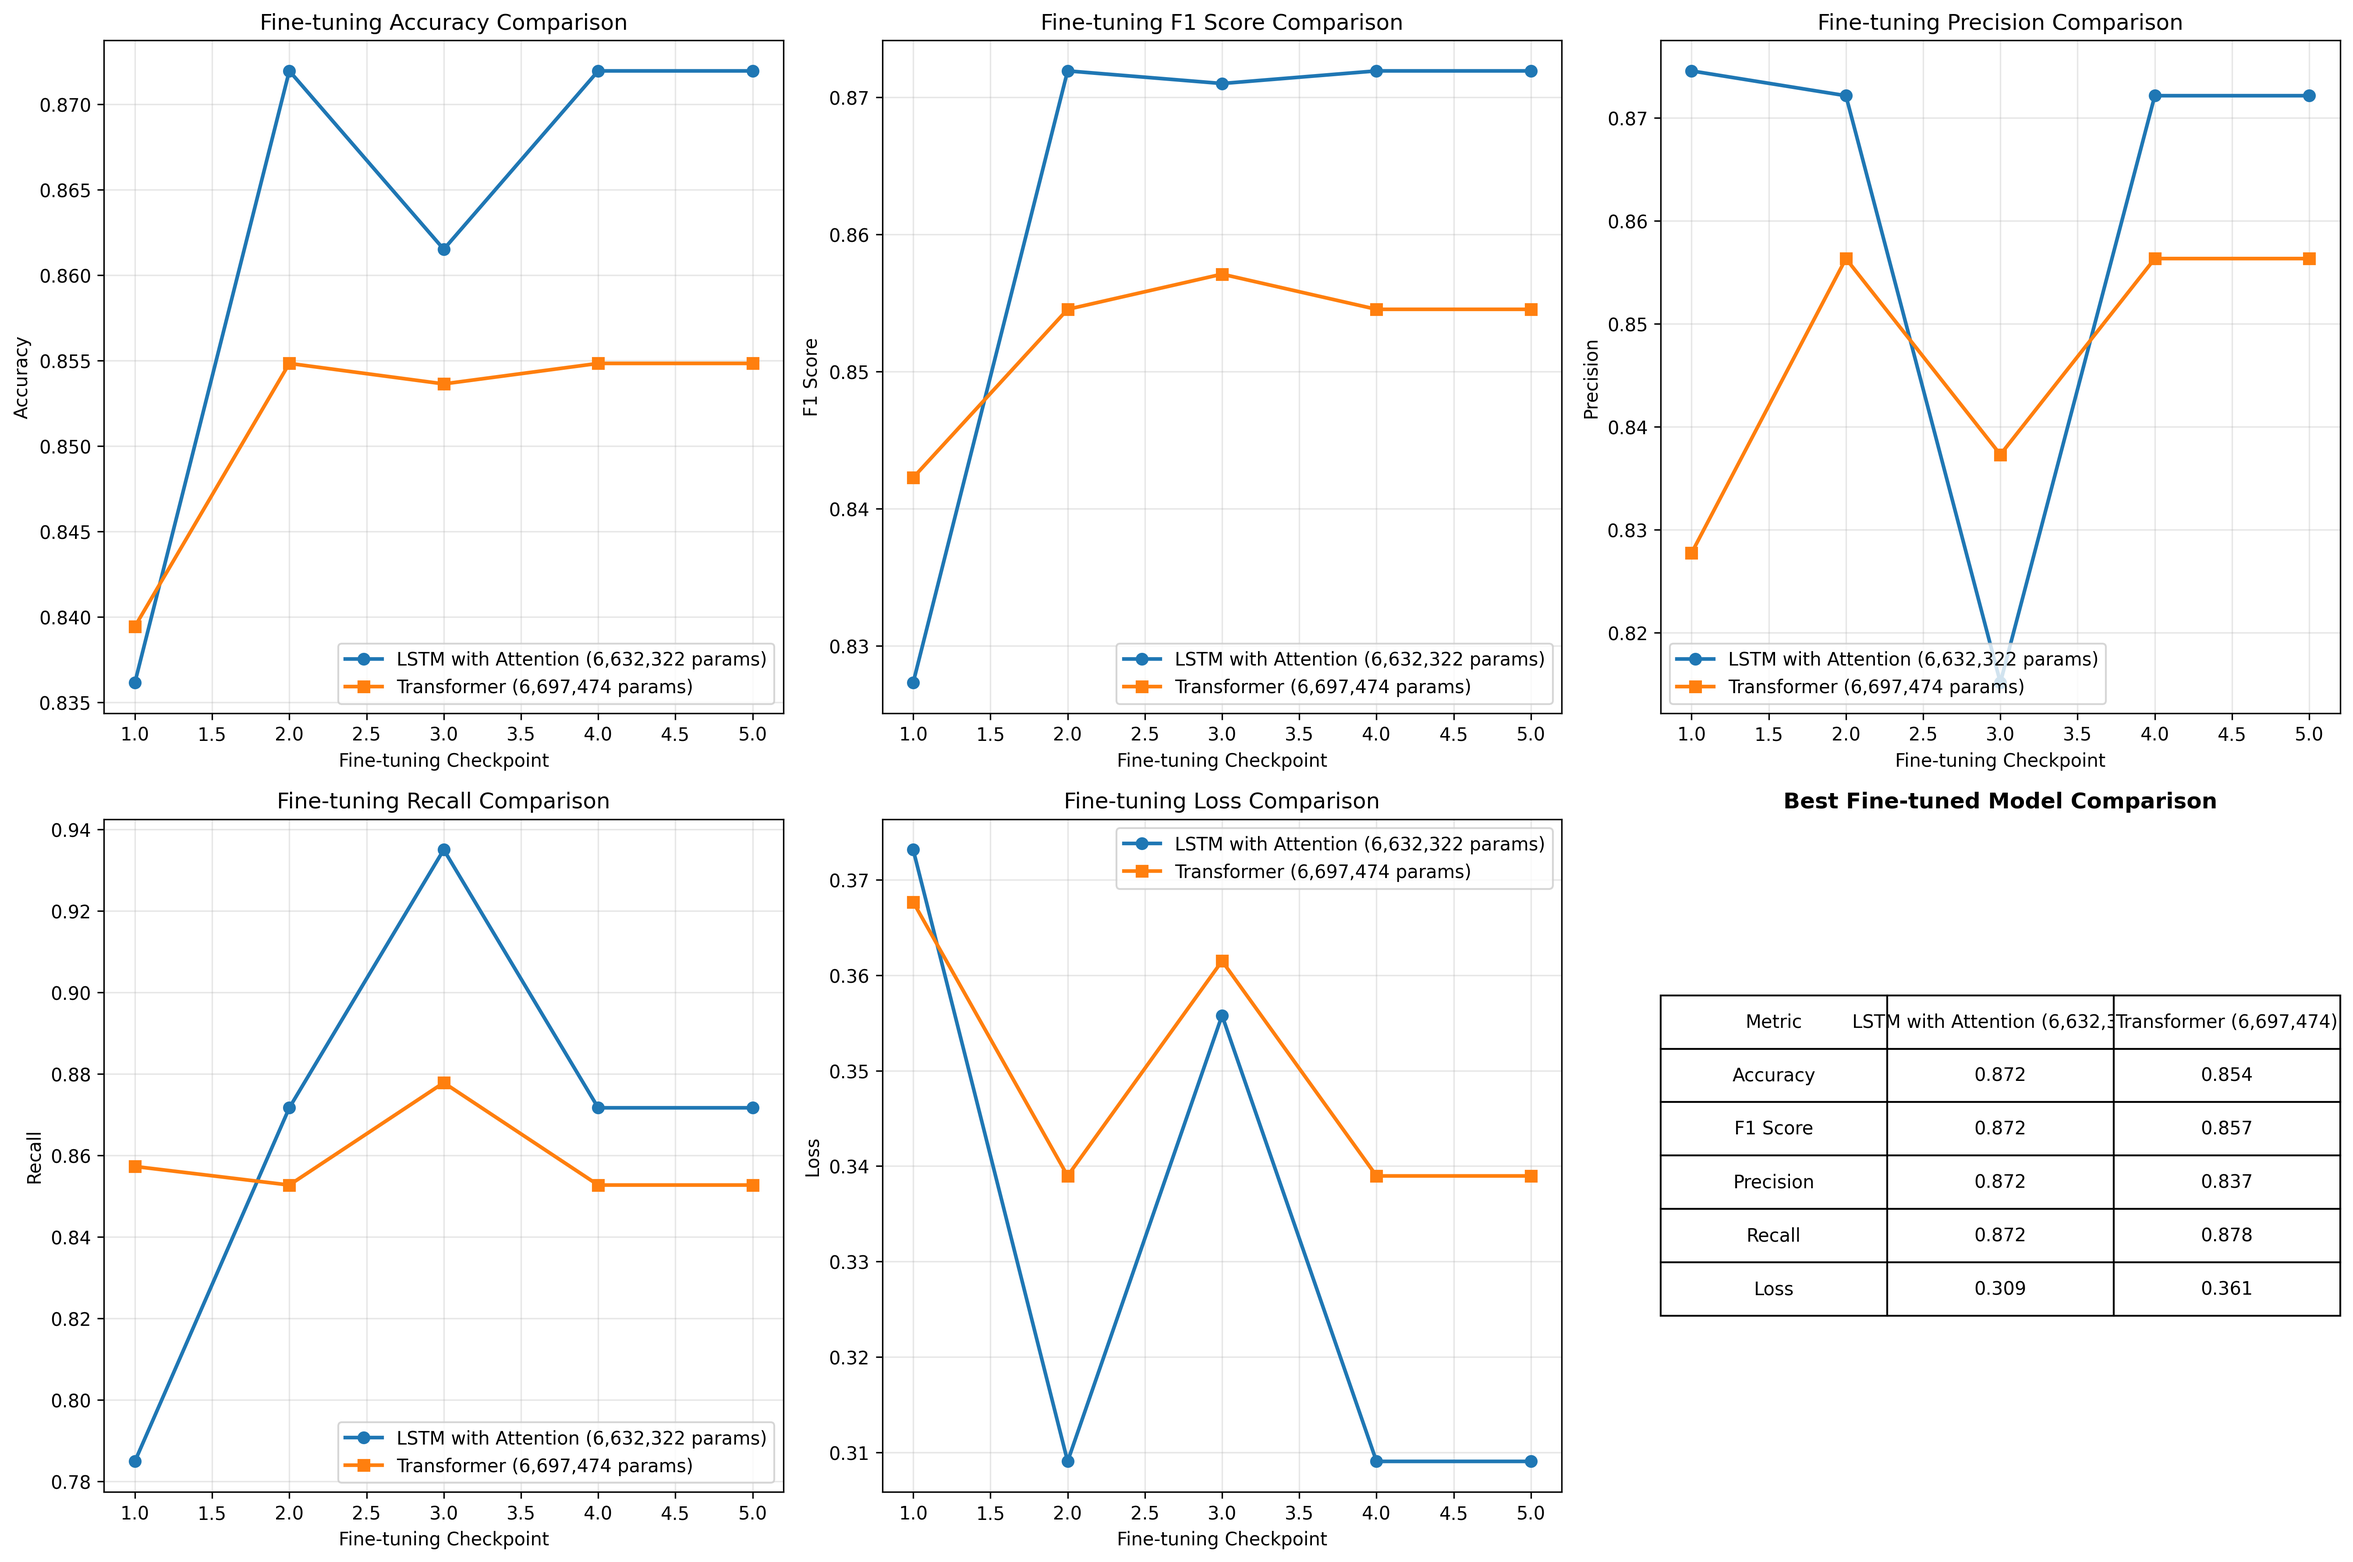
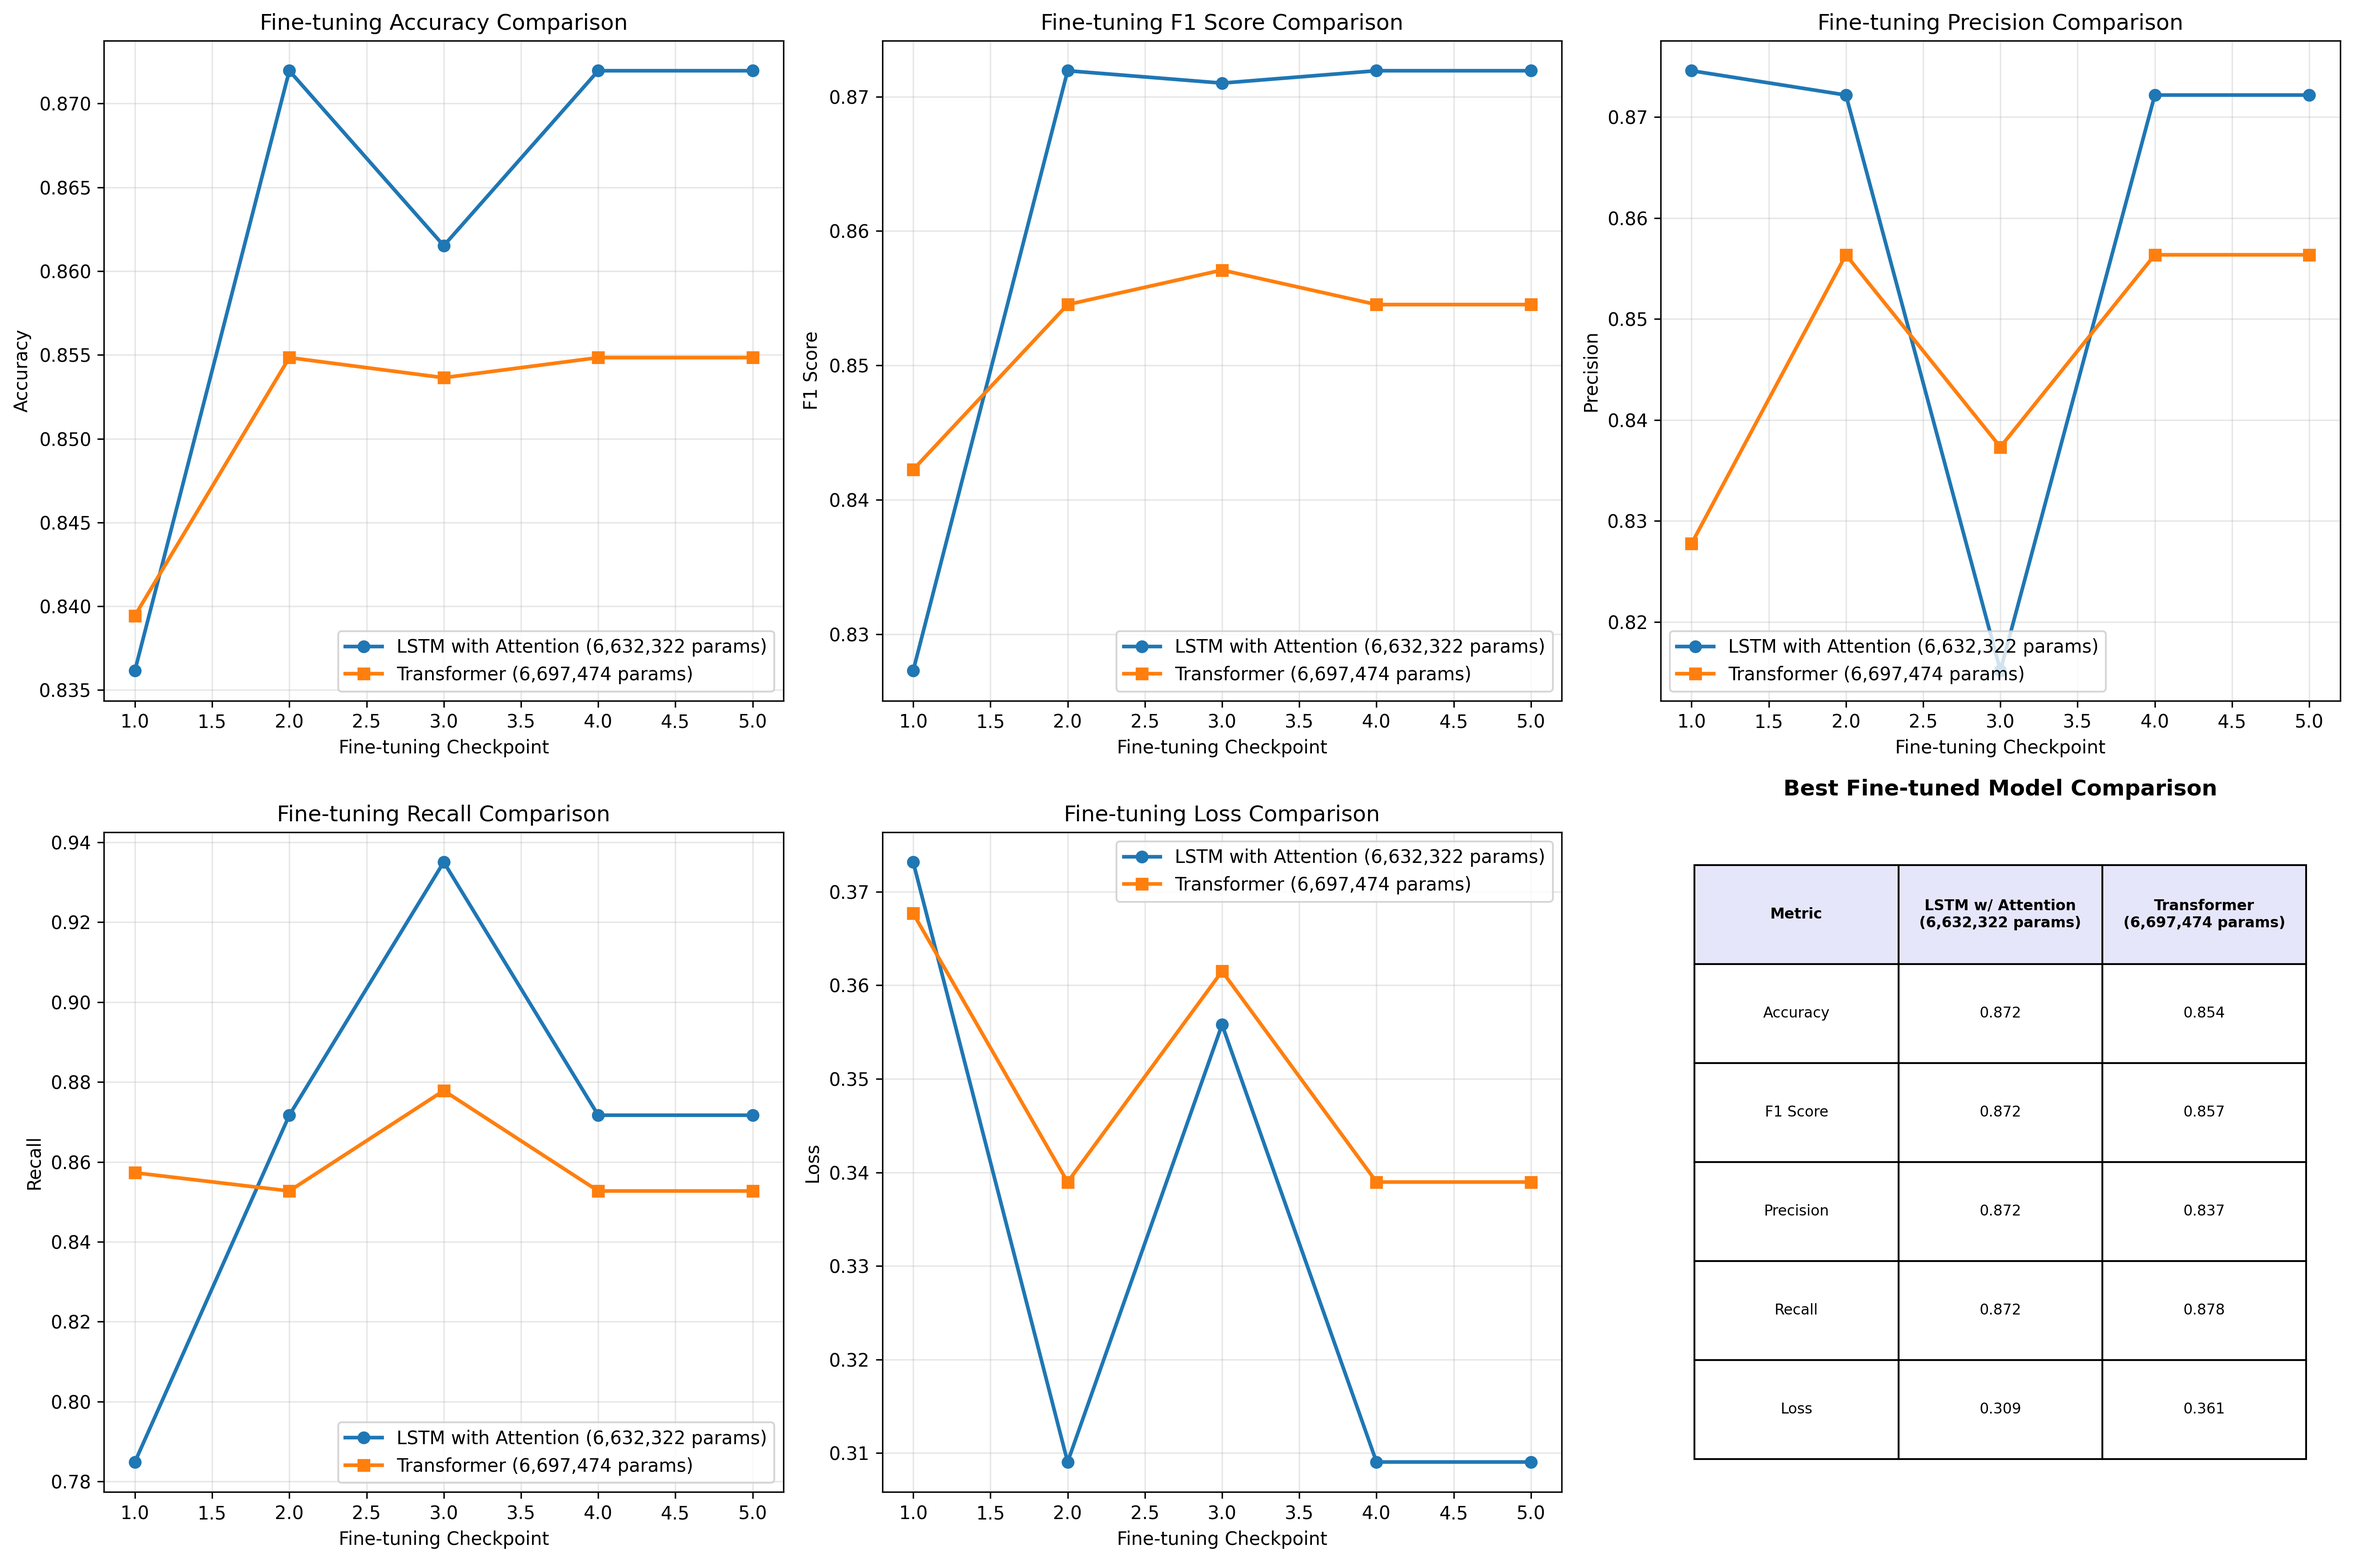
1head1layer, updated

diff --git a/evaluation.py b/evaluation.py
@@ -529,8 +529,9 @@ class ModelEvaluator:
                 lstm_params = best_lstm.get('total_parameters', 0)
                 gpt_params = best_gpt.get('total_parameters', 0)
                 
+                # Use shorter column headers to prevent overflow
                 table_data = [
-                    ['Metric', f'LSTM with Attention ({lstm_params:,})', f'Transformer ({gpt_params:,})'],
+                    ['Metric', f'LSTM w/ Attention\n({lstm_params:,} params)', f'Transformer\n({gpt_params:,} params)'],
                     ['Accuracy', f"{best_lstm['accuracy']:.3f}", f"{best_gpt['accuracy']:.3f}"],
                     ['F1 Score', f"{best_lstm['f1_score']:.3f}", f"{best_gpt['f1_score']:.3f}"],
                     ['Precision', f"{best_lstm['precision']:.3f}", f"{best_gpt['precision']:.3f}"],
@@ -541,9 +542,20 @@ class ModelEvaluator:
                 table = axes[5].table(cellText=table_data[1:], colLabels=table_data[0], 
                                     loc='center', cellLoc='center')
                 table.auto_set_font_size(False)
-                table.set_fontsize(10)
-                table.scale(1, 2)
-                axes[5].set_title('Best Fine-tuned Model Comparison', fontweight='bold')
+                table.set_fontsize(8)  # Reduced font size
+                table.scale(1.2, 1.8)  # Better scaling proportions
+                
+                # Adjust column widths to prevent overflow
+                cellDict = table.get_celld()
+                for i in range(len(table_data)):
+                    for j in range(len(table_data[0])):
+                        cellDict[(i, j)].set_width(0.3)  # Set uniform column width
+                        cellDict[(i, j)].set_height(0.15)  # Set row height
+                        if i == 0:  # Header row
+                            cellDict[(i, j)].set_facecolor('#E6E6FA')
+                            cellDict[(i, j)].set_text_props(weight='bold')
+                
+                axes[5].set_title('Best Fine-tuned Model Comparison', fontweight='bold', pad=20)
             
             plt.tight_layout()
             plt.savefig(self.evaluation_dir / 'finetuning_comprehensive_comparison.png', dpi=300, bbox_inches='tight')
